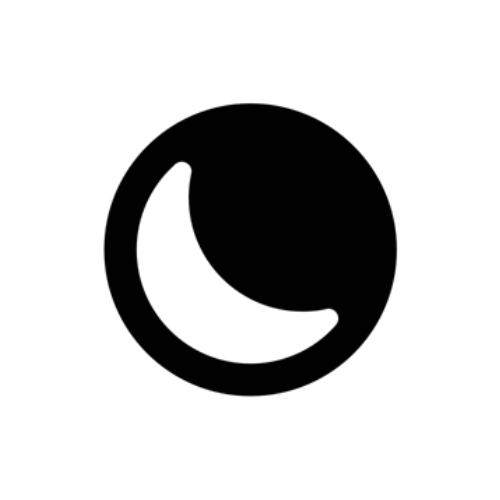
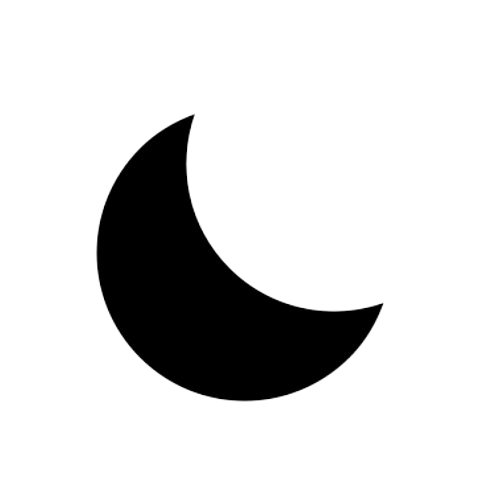
new pages

diff --git a/styles.css b/styles.css
@@ -3,6 +3,8 @@ body {
     margin: 0;
     padding: 0;
     background-color: #161616;
+    color: white;
+    transition: background-color 0.3s ease, color 0.3s ease;
 }
 
 .container {
@@ -34,7 +36,6 @@ header {
     margin-left: auto;
 }
 
-/* Updated font sizes */
 .header-left span, 
 #email {
     font-size: 15px;
@@ -44,7 +45,6 @@ header {
     font-size: 16px;
 }
 
-/* Styling for header buttons (Resume, LinkedIn, GitHub) */
 .header-button {
     display: flex;
     align-items: center;
@@ -54,7 +54,7 @@ header {
     padding: 5px;
     font-size: 20px;
     color: white;
-    transition: opacity 0.3s ease, transform 0.2s ease;
+    transition: opacity 0.3s ease, transform 0.2s ease, color 0.3s ease;
 }
 
 .header-button:hover {
@@ -62,12 +62,10 @@ header {
     transform: scale(1.1);
 }
 
-/* Ensure Font Awesome icons fit within buttons */
 .header-button i {
     font-size: 22px;
 }
 
-/* Theme toggle button */
 #theme-toggle {
     background: none;
     border: none;
@@ -75,25 +73,30 @@ header {
 }
 
 #theme-toggle img {
-    width: 24px;
-    height: 24px;
+    width: 26px;
+    height: 26px;
+    transition: opacity 0.3s ease, transform 0.2s ease;
+}
+
+#theme-toggle:hover img {
+    opacity: 0.7;
 }
 
 .header-left img {
     width: 20px;
     height: auto;
+    transition: opacity 0.3s ease;
 }
 
 .small-time {
     font-size: 14px;
 }
 
-/* Main content layout */
 main {
     display: flex;
     justify-content: space-between;
     align-items: flex-start;
-    gap: 150px; /* Adjust this value to increase spacing */
+    gap: 150px;
     padding: 20px;
     max-width: 1200px;
     margin: 0 auto;
@@ -102,16 +105,13 @@ main {
 section {
     flex-grow: 1;
     min-width: 320px;
-    color: white;
 }
 
-/* Adjust movies column to reach the theme toggle */
 section:last-child {
     flex-grow: 1.2;
     margin-right: 60px;
 }
 
-/* List styling with custom icons */
 ul li {
     margin-bottom: 20px;
     list-style: none;
@@ -122,42 +122,120 @@ ul li {
 
 .movies-container, .projects-container, .umich-container {
     position: relative;
-    display: flex; /* Match other list items */
+    display: flex;
     align-items: center;
     gap: 8px;
     cursor: pointer;
-    padding: 0; /* Remove any unwanted padding */
-    margin: 0; /* Remove any unwanted margin */
-    width: 100%; /* Ensures it doesn't shrink */
+    padding: 0;
+    margin: 0;
+    width: 100%;
 }
 
-#movies-popup, #projects-popup {
+#movies-popup, #projects-popup, #umich-popup {
     display: none;
     position: absolute;
-    top: -1px; /* Adjust for proper placement */
-    left: 50%; /* Moves it closer to the text */
-    width: 40px; /* Adjust size as needed */
-    height: auto;
-    background-color: transparent;
-}
-
-#umich-popup {
-    display: none;
-    position: absolute;
-    top: -1px; /* Adjust for proper placement */
-    left: 120%; /* Moves it closer to the text */
-    width: 40px; /* Adjust size as needed */
+    top: -1px;
+    left: 100%;
+    width: 40px;
     height: auto;
     background-color: transparent;
 }
 
 #movies-popup img, #projects-popup img, #umich-popup img {
-    width: 20px; /* Adjust the width to make it smaller */
-    height: auto; /* Maintains aspect ratio */
+    width: 20px;
+    height: auto;
 }
 
 .movies-container:hover #movies-popup,
 .projects-container:hover #projects-popup,
 .umich-container:hover #umich-popup {
     display: block;
+}
+
+.movies-container:hover strong,
+.projects-container:hover strong,
+.umich-container:hover strong,
+ul li:hover strong {
+    color: #999999;
+}
+
+.lighter-text {
+    color: #999999;
+}
+
+#email {
+    color: white;
+    text-decoration: none;
+    cursor: pointer;
+    transition: color 0.3s ease;
+}
+
+#email:hover {
+    opacity: 0.8;
+}
+
+/* Dark and Light Mode Styles */
+:root {
+    --background-dark: #161616;
+    --text-dark: white;
+    --hover-dark: rgba(255, 255, 255, 0.3);
+    --background-light: #f5f5f5;
+    --text-light: black;
+    --hover-light: rgba(0, 0, 0, 0.3);
+}
+
+.dark-mode {
+    background-color: var(--background-dark);
+    color: var(--text-dark);
+}
+
+.light-mode {
+    background-color: var(--background-light);
+    color: var(--text-light);
+}
+
+.light-mode header, 
+.light-mode main, 
+.light-mode section {
+    color: var(--text-light);
+}
+
+.light-mode .header-button i {
+    color: black;
+}
+
+.dark-mode .header-button i {
+    color: white;
+}
+
+.light-mode #email {
+    color: black;
+}
+
+.light-mode #theme-toggle:hover img {
+    background-color: var(--hover-light);
+}
+
+.dark-mode #theme-toggle:hover img {
+    background-color: var(--hover-dark);
+}
+
+.light-mode .header-left img {
+    content: url('assets/my-logo-light.png');
+}
+
+.dark-mode .header-left img {
+    content: url('assets/my-logo-dark.png');
+}
+
+.light-mode #movies-popup img,
+.light-mode #projects-popup img,
+.light-mode #umich-popup img {
+    content: url('assets/arrow-light.png');
+}
+
+.dark-mode #movies-popup img,
+.dark-mode #projects-popup img,
+.dark-mode #umich-popup img {
+    content: url('assets/arrow-dark.png');
 }

diff --git a/script.js b/script.js
@@ -6,3 +6,31 @@ function updateClock() {
 }
 setInterval(updateClock, 1000);
 updateClock();
+
+
+document.addEventListener("DOMContentLoaded", function () {
+  const themeToggle = document.getElementById("theme-toggle");
+  const themeIcon = document.getElementById("theme-icon");
+
+  function setTheme(mode) {
+      if (mode === "light") {
+          document.body.classList.remove("dark-mode");
+          document.body.classList.add("light-mode");
+          themeIcon.src = "assets/moon-icon.png"; // Ensure this icon exists
+          localStorage.setItem("theme", "light");
+      } else {
+          document.body.classList.remove("light-mode");
+          document.body.classList.add("dark-mode");
+          themeIcon.src = "assets/sun-icon.png";
+          localStorage.setItem("theme", "dark");
+      }
+  }
+
+  themeToggle.addEventListener("click", () => {
+      const currentTheme = document.body.classList.contains("dark-mode") ? "dark" : "light";
+      setTheme(currentTheme === "dark" ? "light" : "dark");
+  });
+
+  const savedTheme = localStorage.getItem("theme") || "dark";
+  setTheme(savedTheme);
+});
